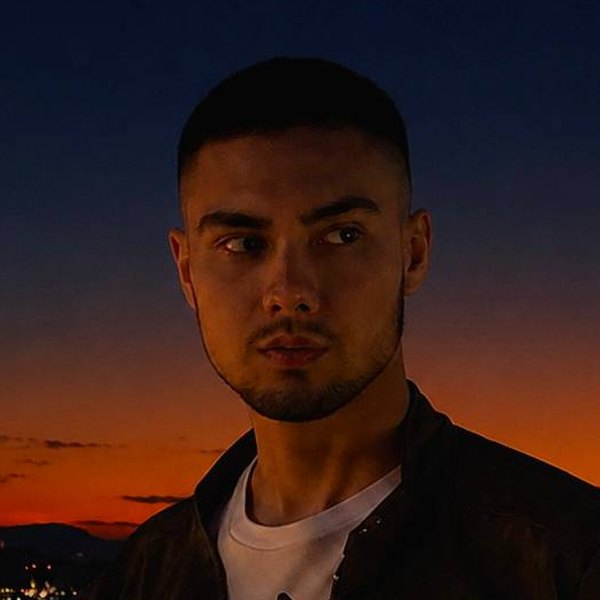
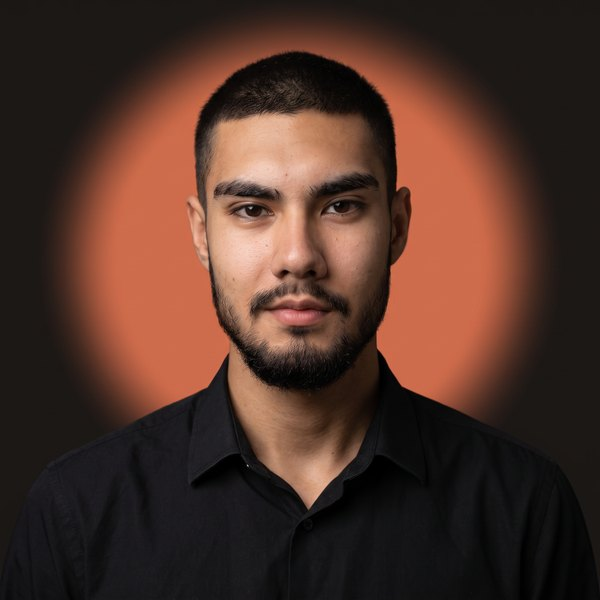
vostok.ai: фото команды — стиль «солнце»

diff --git a/v4/index.html b/v4/index.html
@@ -119,13 +119,13 @@
     <h2 class="h2" data-rv>Команда, которая <em>делает всё сама</em></h2>
     <p class="lead" data-rv>Мы из Владивостока. Приезжаем к вам, разбираемся в процессах и сами пишем код, без подрядчиков и посредников. Вы всегда знаете, кто отвечает за результат.</p>
     <div class="team">
-      <article class="panel lead-card" data-rv><div class="ph">Т</div><div><h3>Тимур Умаров</h3><div class="role">Руководитель · стратегия и партнёрства</div>
+      <article class="panel lead-card" data-rv><div class="ph"><img src="img/timur.jpg?v=3" width="600" height="600" alt="Тимур Умаров" loading="lazy" decoding="async"></div><div><h3>Тимур Умаров</h3><div class="role">Руководитель · стратегия и партнёрства</div>
         <p>Встречается с руководителями, выясняет, что бизнесу нужно закрыть сейчас и что — в перспективе, и выстраивает процессы под результат. За плечами своя компания по импорту из Южной Кореи — от поиска брендов и поставщиков до склада, маркетплейсов и торговых сетей, — поставки оборудования из Китая. Регулярно работает в Шанхае и Шэньчжэне, проходит MBA в ДВФУ.</p>
         <p class="quote">«Мне ценнее 20 компаний, с которыми мы пойдём вдолгую, чем тысячи клиентов на один раз»</p></div></article>
-      <article class="panel" data-rv><div class="ph"><img src="img/alexander.jpg" width="600" height="600" alt="Александр Умаров" loading="lazy" decoding="async"></div><div><h3>Александр Умаров</h3><div class="role">Проекты, клиенты, автоматизация</div>
+      <article class="panel" data-rv><div class="ph"><img src="img/alexander.jpg?v=3" width="600" height="600" alt="Александр Умаров" loading="lazy" decoding="async"></div><div><h3>Александр Умаров</h3><div class="role">Проекты, клиенты, автоматизация</div>
         <p>Ведёт проект от первой встречи и разбора процессов до запуска. Сам собирает ИИ-агентов по базе знаний, Telegram-ботов и Mini App, воронки из Instagram, защиту сайтов и сбор лидов. В ИИ с 2022 года, учится управлению проектами в ВВГУ.</p>
         <p class="award">1 место регионального чемпионата «Профессионалы» по технологическому предпринимательству, топ-5 межрегионального финала</p></div></article>
-      <article class="panel" data-rv><div class="ph"><img src="img/yaroslav.jpg?v=2" width="600" height="600" alt="Ярослав Черчик" loading="lazy" decoding="async"></div><div><h3>Ярослав Черчик</h3><div class="role">ИИ-агенты, DevOps, контент-системы</div>
+      <article class="panel" data-rv><div class="ph"><img src="img/yaroslav.jpg?v=3" width="600" height="600" alt="Ярослав Черчик" loading="lazy" decoding="async"></div><div><h3>Ярослав Черчик</h3><div class="role">ИИ-агенты, DevOps, контент-системы</div>
         <p>Системный и DevOps-инженер, ВВГУ («Информационные технологии и программирование»). Telegram-боты и Mini App, ИИ-агенты, интеграции с Битрикс24 и маркетплейсами, контент-системы с монтажом видео кодом.</p></div></article>
       <details class="panel join" id="join" data-rv>
         <summary><span class="ji" aria-hidden="true"><svg viewBox="0 0 24 24"><circle cx="9" cy="8" r="3.5"/><path d="M2.5 20c.6-3.6 3.2-5.5 6.5-5.5s5.9 1.9 6.5 5.5"/><path d="M19 7v6M16 10h6"/></svg></span>
